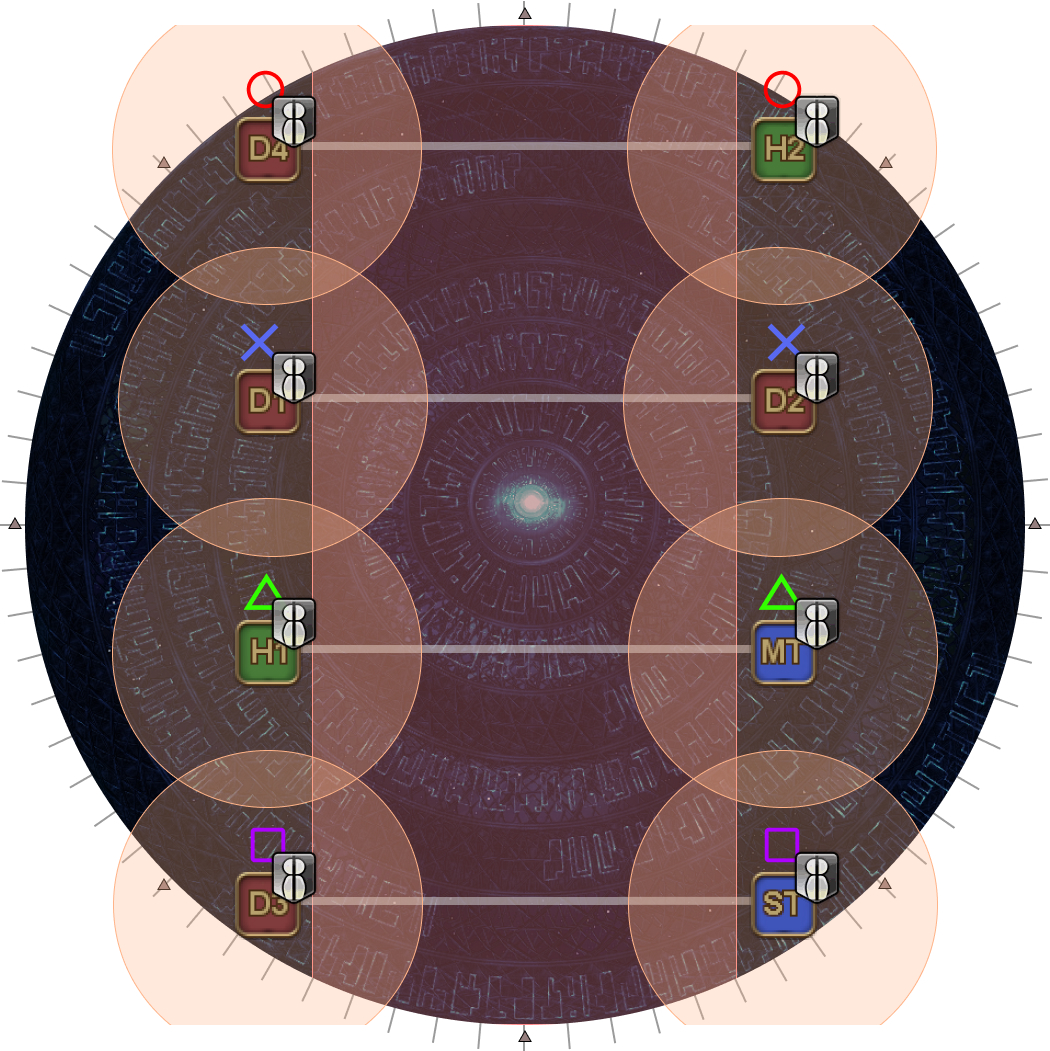
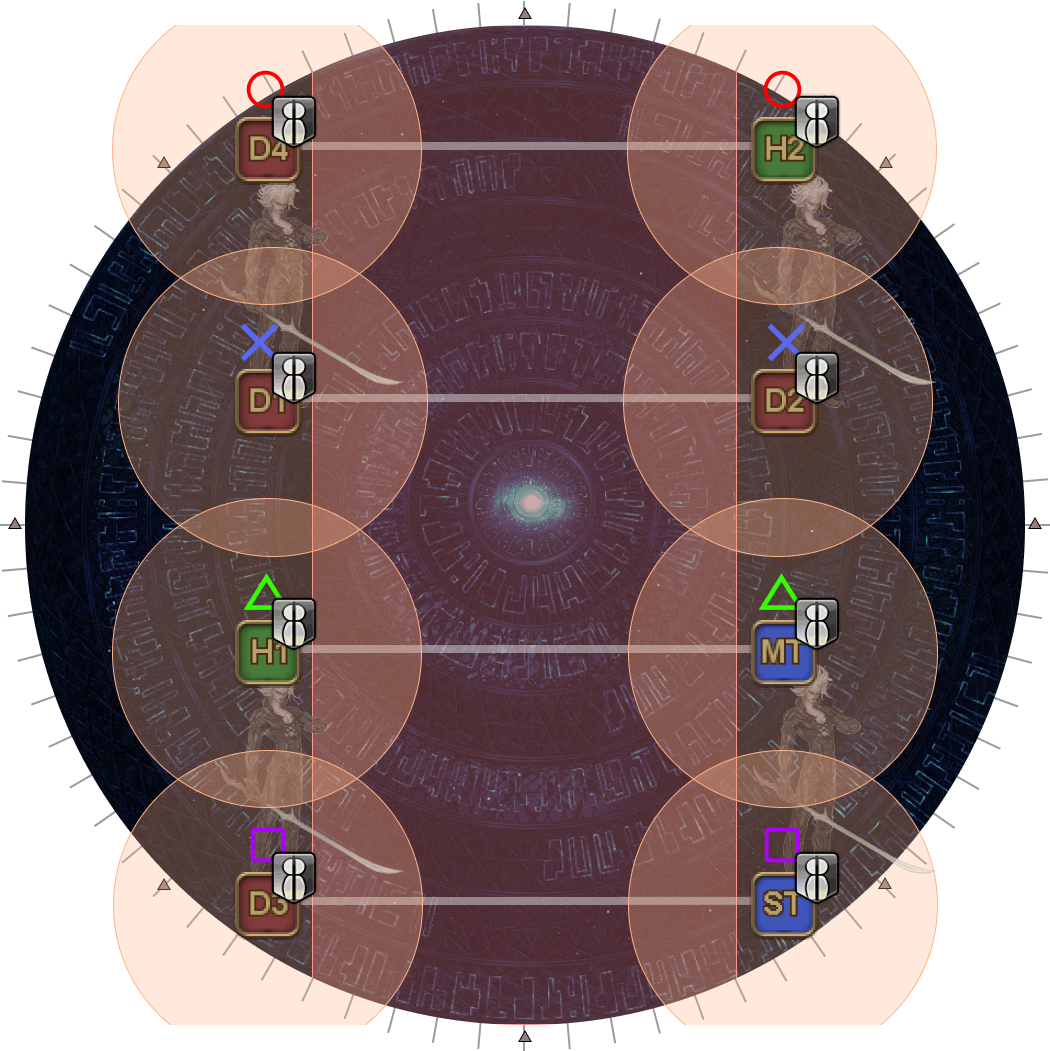
Add Omega-M clones to Party Synergy diagrams

diff --git a/ultimates/top/en/02_omega_mf.md b/ultimates/top/en/02_omega_mf.md
@@ -107,6 +107,8 @@ major mechanic of this phase.
       <p>If the party's debuff is Mid Glitch, spread in the order 〇×△□ from
       top-to-bottom.</p><p>Otherwise, if the party's debuff is Remote Glitch,
       only the <b>right-side group's 〇 and □</b> swap positions.</p>
+      <p>Four Omega-M clones will also spawn along either all the cardinals, or
+      all the intercardinal directions.</p>
     </td>
     <td>
       <img src="../images/02_omega_mf/party_synergy_04a.jpg">
@@ -115,17 +117,21 @@ major mechanic of this phase.
   </tr>
   <tr>
     <td>
-      <p><b>5.</b> Come back to the center of the arena, and locate the three
-      Omega-Ms standing in a row. <b>Use this as the new North</b>.</p>
-      <p>As you do so, two players will be marked with stack markers. If one
-      group has both stack markers, the <b>lower</b> stack marker swaps with
-      their partner in the other group.</p>
+      <p><b>5.</b> A fifth Omega-M will spawn in a random location (briefly
+      flashing white), making three Omega-M clones standing in a row.</p>
+      <p><b>Use this new Omega-M as the new North.</b></p>
+      Come back to the center of the arena. As you do so, two players will be
+      marked with stack markers. If one side has both stack markers, the one
+      <b>further</b> from the eye swaps with their partner in the other group.</p>
+      <p><em>(In this example, the left side × and □ players both have a stack
+      marker. Since □ is further from the eye, the □ players swap sides.)</em></p>
     </td>
     <td><img src="../images/02_omega_mf/party_synergy_05.jpg"></td>
   </tr>
   <tr>
     <td>
-      <p><b>6.</b> Get knocked back from the center into the two safe spots.</p>
+      <p><b>6.</b> Omega-F will spawn in the middle and knock back all players.</p>
+      <p>The party needs to get knocked back from the center into the two safe spots.</p>
       <ul>
         <li>The left-side group will always knockback to the west.</li>
         <li>The right-side group will adjust depending on the party's debuff:
